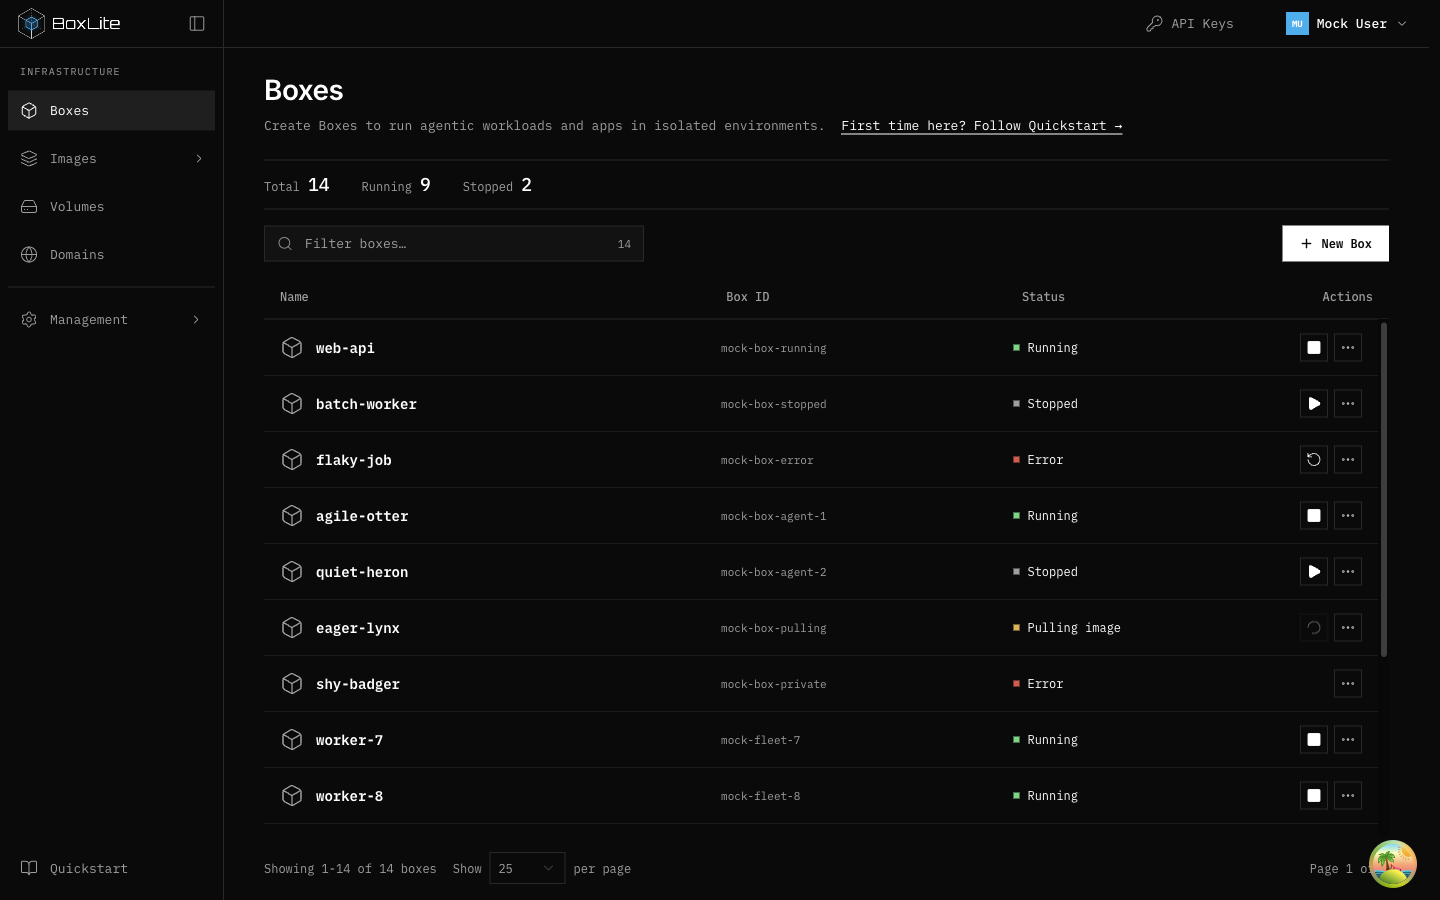
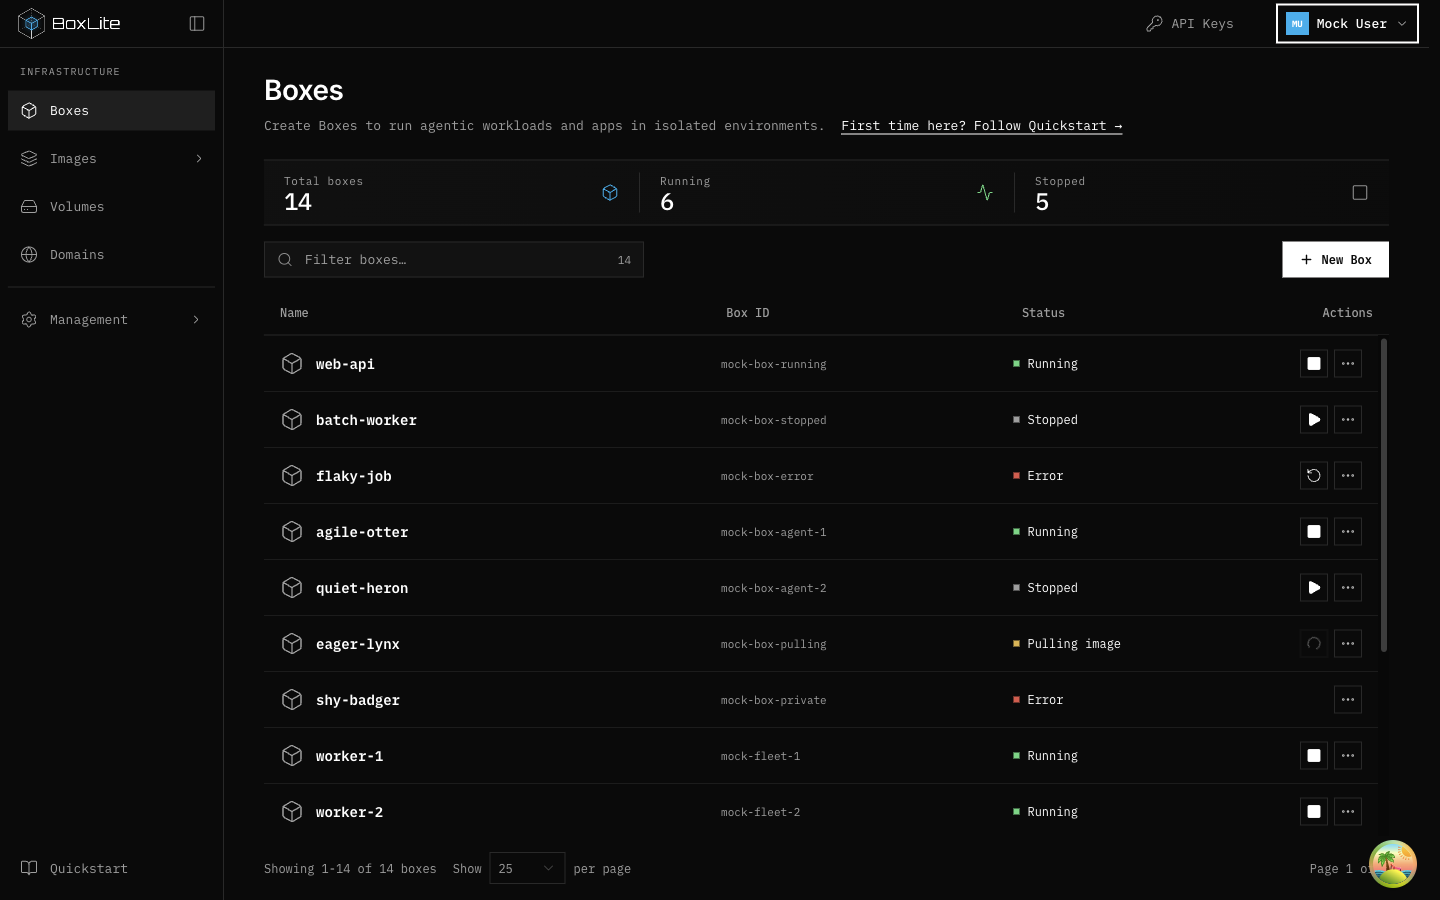
style(dashboard): refine compact fleet metrics

diff --git a/apps/dashboard/src/pages/Boxes.tsx b/apps/dashboard/src/pages/Boxes.tsx
@@ -9,7 +9,7 @@ import { OrganizationSuspendedError } from '@/api/errors'
 import { AsciiButton } from '@/components/ascii'
 import { CreateBoxDialog } from '@/components/Box/CreateBoxDialog'
 import { BoxTable } from '@/components/BoxTable'
-import { Plus } from '@/components/ui/icon'
+import { Activity, Container, Plus, Square } from '@/components/ui/icon'
 
 import {
   AlertDialog,
@@ -727,17 +727,25 @@ const Boxes: React.FC = () => {
 
       {(totalBoxesQuery.data ?? 0) >= FLEET_THRESHOLD && (
         <dl
-          className="mb-4 flex shrink-0 flex-wrap items-center gap-x-8 gap-y-2 border-y border-border py-3"
+          className="mb-4 grid shrink-0 grid-cols-3 border-y border-border bg-gradient-to-r from-card/80 to-card/20 py-3"
           aria-label="Boxes overview"
         >
           {[
-            ['Total', totalBoxesDisplay],
-            ['Running', runningBoxesDisplay],
-            ['Stopped', stoppedBoxesDisplay],
-          ].map(([label, value]) => (
-            <div key={label} className="flex items-baseline gap-2">
-              <dt className="text-meta text-muted-foreground">{label}</dt>
-              <dd className="font-mono text-lg font-medium leading-6 tabular-nums">{value}</dd>
+            { label: 'Total boxes', value: totalBoxesDisplay, icon: Container, color: 'text-brand' },
+            { label: 'Running', value: runningBoxesDisplay, icon: Activity, color: 'text-success' },
+            { label: 'Stopped', value: stoppedBoxesDisplay, icon: Square, color: 'text-muted-foreground' },
+          ].map(({ label, value, icon: Icon, color }) => (
+            <div key={label} className="relative min-w-0 border-border px-3 sm:px-5 [&:not(:first-child)]:border-l">
+              <dt className="font-mono text-[11px] leading-4 tracking-[0.06em] text-muted-foreground">
+                {label}
+                <Icon
+                  aria-hidden="true"
+                  className={`absolute right-5 top-1/2 hidden size-[18px] -translate-y-1/2 sm:block ${color}`}
+                />
+              </dt>
+              <dd className="break-all font-mono text-2xl font-medium leading-6 tracking-tight tabular-nums sm:pr-7">
+                {value}
+              </dd>
             </div>
           ))}
         </dl>

diff --git a/docs/contributing/investigations/2026-11-11-domain-toolbar.md b/docs/contributing/investigations/2026-11-11-domain-toolbar.md
@@ -70,18 +70,20 @@ checks covered search, opening/canceling revoke confirmation, and clearing no ma
 ## Compact Boxes overview
 
 Three StatCards made the overview 101px tall, with an additional 24px below.
-Only Boxes now uses an inline description list: Total, Running and Stopped with
-18px tabular numerals, quiet labels, and horizontal separators. Repeated captions,
-dot-matrix numerals and LIVE decoration are removed from this view. Shared
-StatCard remains unchanged. The overview still uses independent organization
-counts and appears only from ten Boxes onward; it does not summarize the current
-filtered page. Unknown counts retain their existing placeholder.
+Boxes now uses a connected three-cell description list: Total boxes, Running and
+Stopped, with 24px tabular values below small labels. Decorative 18px thin-line
+icons use existing brand, success and muted tokens. Short separators and a faint
+neutral gradient give the strip hierarchy without heavy card outlines. Shared
+StatCard remains unchanged. Independent organization counts and the ten-Box
+threshold remain; unknown counts retain their existing placeholder.
 
-A browser geometry assertion failed before this change at 1440px (101.05px
-height). The unchanged assertion passed after: 50px at 1280/1440/1920px, without
-horizontal overflow. Including the reduced margin, the toolbar and list move up
-59px. Two invariant tests preserve the 9/10 threshold independently of list rows;
-these check unchanged behavior, rather than reproducing the height defect.
+The original 101.05px height was measured in a real 1440px mock viewport. The
+final refined layout measures 66px at 1280/1440/1920px in both light and dark
+themes, without horizontal overflow. Including reduced bottom spacing, the
+list moves up about 43px relative to the original cards. The earlier 50px plain
+strip was replaced with this intentional visual refinement; the final desktop
+height check uses a 72px ceiling. Two invariant tests preserve the 9/10 threshold
+independently of list rows.
 
 The combined Domains, Boxes and Keys suites passed 33 tests. Targeted ESLint has
 zero errors; five existing non-null-assertion warnings remain in Boxes tests.
@@ -89,3 +91,5 @@ Temporary populated mock fixtures were restored after desktop screenshots.
 
 ![Boxes overview before](assets/boxes-summary/before.png)
 ![Boxes overview after](assets/boxes-summary/after.png)
+
+![Refined overview in light theme](assets/boxes-summary/after-light.png)

diff --git a/apps/dashboard/README.md b/apps/dashboard/README.md
@@ -646,7 +646,7 @@ Box inbound state means the proxy tunnel gate, not organization scope: disabled 
 
 Desktop visual comparisons and reproduction steps: [screenshot gallery](../../docs/contributing/investigations/assets/desktop-dashboard-review/README.md).
 
-Resource headers leave 24px before the next section. Desktop filters share a 380×36px field, 13px input text, solid border and explicit accessible name. Toolbars precede list headers by 14px; Images and Domains usage wraps only when needed. Private registries supports local host, prefix and username filtering with clear-filter recovery. Boxes shows total, running and stopped counts for fleets of at least ten Boxes, independently of list filters or pagination. Its compact overview places labels and tabular counts inline in a 50px desktop strip, with 16px before the filter toolbar; loading counts remain unknown rather than zero.
+Resource headers leave 24px before the next section. Desktop filters share a 380×36px field, 13px input text, solid border and explicit accessible name. Toolbars precede list headers by 14px; Images and Domains usage wraps only when needed. Private registries supports local host, prefix and username filtering with clear-filter recovery. Boxes shows total, running and stopped counts for fleets of at least ten Boxes, independently of list filters or pagination. Its compact overview uses three connected cells in a 66px desktop strip: 24px tabular counts, small labels, decorative thin-line icons and a subtle neutral surface. Short separators divide the cells; 16px separates the strip from the filter toolbar. Loading counts remain unknown rather than zero.
 
 Billing pagers retain Previous on a failed later page with unknown totals. Cached Images refresh failures identify the retained rows as previously loaded data. Unknown invoice statuses preserve the upstream text. Create Box pricing and validation scroll inside the body while header and action footer remain visible.
 
